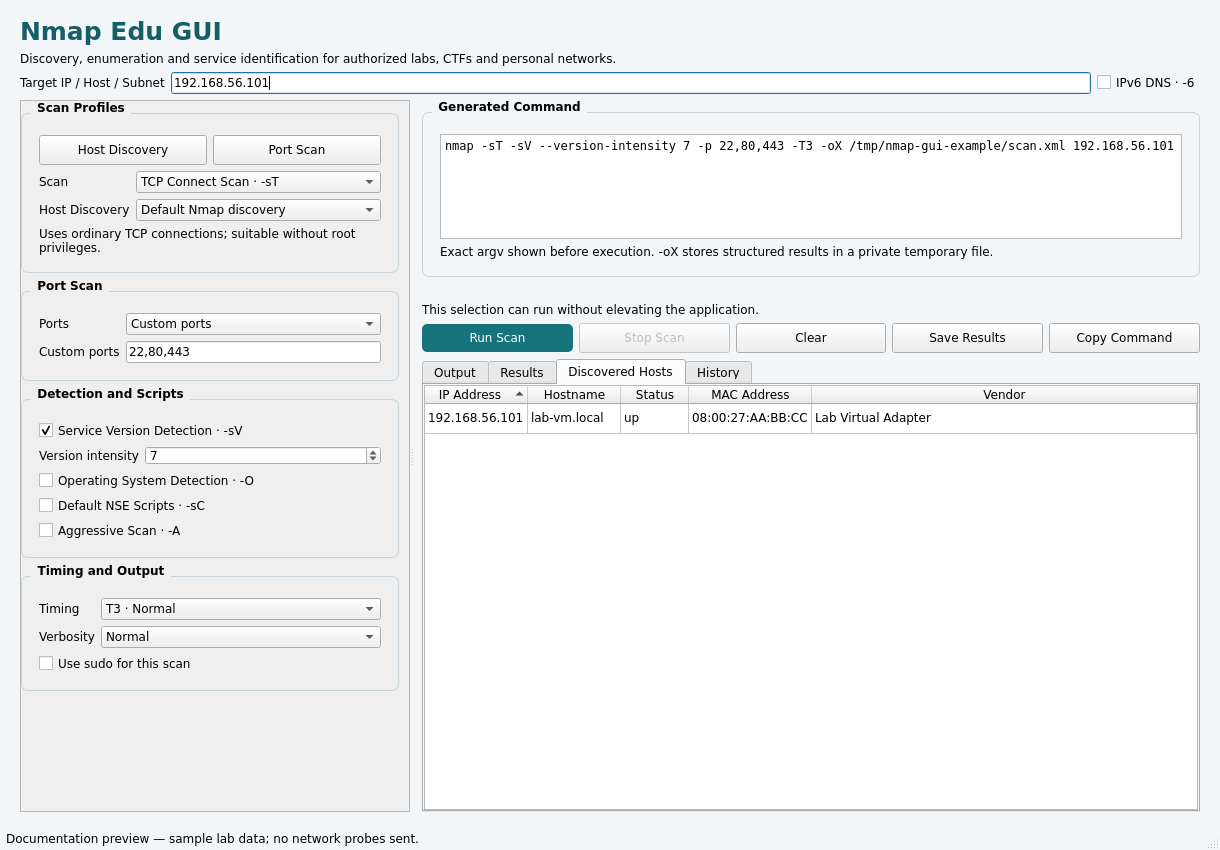
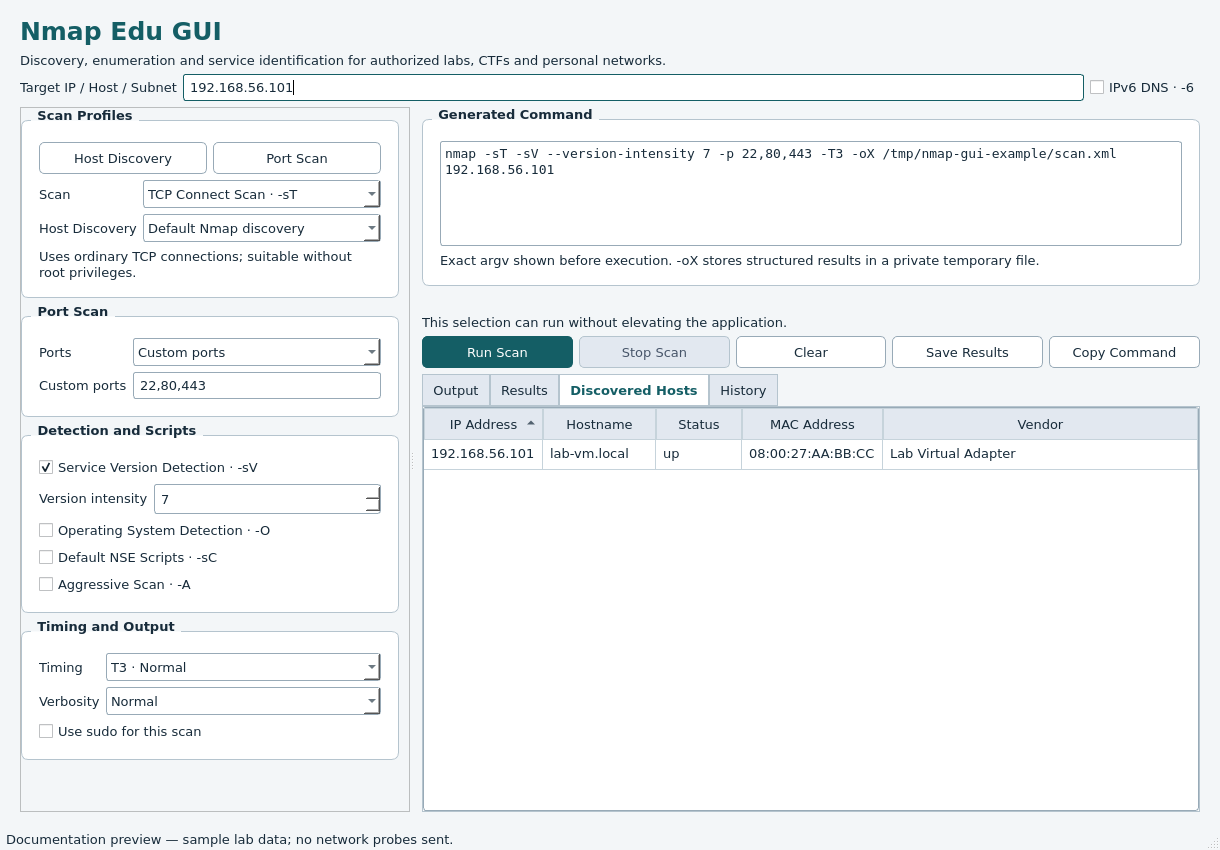
Fix text contrast across desktop themes and disabled controls

diff --git a/src/nmap_gui/theme.py b/src/nmap_gui/theme.py
@@ -1,0 +1,107 @@
+"""Consistent, readable light colors independent of the desktop's palette."""
+
+from PyQt6.QtGui import QColor, QPalette
+from PyQt6.QtWidgets import QApplication
+
+
+STYLESHEET = """
+    QMainWindow, QDialog { background: #f3f6f8; color: #172b3a; }
+    QLabel, QCheckBox, QGroupBox, QStatusBar { color: #172b3a; }
+    QLabel#title { color: #145e65; font-size: 25px; font-weight: 700; }
+    QGroupBox {
+        background: #ffffff; font-weight: 600;
+        border: 1px solid #b5c4ce; border-radius: 7px;
+        margin-top: 12px; padding: 12px 8px 8px;
+    }
+    QGroupBox::title { subcontrol-origin: margin; left: 10px; padding: 0 4px; }
+    QLineEdit, QSpinBox, QComboBox, QPlainTextEdit, QTableWidget {
+        background: #ffffff; color: #172b3a;
+        selection-background-color: #145e65; selection-color: #ffffff;
+        border: 1px solid #98aab7; border-radius: 3px;
+    }
+    QLineEdit, QSpinBox, QComboBox { padding: 4px; }
+    QLineEdit:focus, QSpinBox:focus, QComboBox:focus, QPlainTextEdit:focus {
+        border: 1px solid #145e65;
+    }
+    QComboBox QAbstractItemView {
+        background: #ffffff; color: #172b3a;
+        selection-background-color: #145e65; selection-color: #ffffff;
+        border: 1px solid #98aab7;
+    }
+    QPushButton {
+        background: #ffffff; color: #172b3a; border: 1px solid #98aab7;
+        border-radius: 5px; padding: 7px 10px;
+    }
+    QPushButton:hover { background: #edf3f6; color: #172b3a; border-color: #145e65; }
+    QPushButton:pressed { background: #dce8ed; color: #172b3a; }
+    QPushButton:focus { border: 2px solid #145e65; padding: 6px 9px; }
+    QPushButton#run { background: #145e65; color: #ffffff; border-color: #145e65; }
+    QPushButton#run:hover { background: #104d54; color: #ffffff; }
+    QPushButton#run:pressed { background: #0d3e44; color: #ffffff; }
+    QPushButton:disabled, QPushButton#run:disabled,
+    QLineEdit:disabled, QSpinBox:disabled, QComboBox:disabled {
+        background: #e2e8f0; color: #475569; border-color: #b5c4ce;
+    }
+    QLabel:disabled, QCheckBox:disabled, QGroupBox:disabled { color: #475569; }
+    QTabWidget::pane { background: #ffffff; border: 1px solid #b5c4ce; }
+    QTabBar::tab {
+        background: #e2e8f0; color: #172b3a;
+        border: 1px solid #b5c4ce; padding: 7px 10px;
+    }
+    QTabBar::tab:selected { background: #ffffff; color: #145e65; font-weight: 600; }
+    QTabBar::tab:hover { background: #edf3f6; color: #172b3a; }
+    QTableWidget { alternate-background-color: #f0f5f8; gridline-color: #c6d3db; }
+    QTableWidget::item { padding: 4px; }
+    QTableWidget::item:selected { background: #145e65; color: #ffffff; }
+    QHeaderView::section {
+        background: #e2e8f0; color: #172b3a;
+        border: 1px solid #c6d3db; padding: 5px;
+    }
+    QPlainTextEdit#console {
+        background: #18222d; color: #edf3f8; border: 0; padding: 8px;
+        selection-background-color: #b8dce2; selection-color: #172b3a;
+    }
+    QToolTip { background: #ffffff; color: #172b3a; border: 1px solid #98aab7; padding: 5px; }
+"""
+
+
+def apply_light_theme(app: QApplication) -> None:
+    """Set both palette roles and styled states, including inactive/disabled ones."""
+    app.setStyle("Fusion")
+    palette = QPalette()
+    colors = {
+        QPalette.ColorRole.Window: "#f3f6f8",
+        QPalette.ColorRole.WindowText: "#172b3a",
+        QPalette.ColorRole.Base: "#ffffff",
+        QPalette.ColorRole.AlternateBase: "#f0f5f8",
+        QPalette.ColorRole.Text: "#172b3a",
+        QPalette.ColorRole.PlaceholderText: "#526376",
+        QPalette.ColorRole.Button: "#ffffff",
+        QPalette.ColorRole.ButtonText: "#172b3a",
+        QPalette.ColorRole.Highlight: "#145e65",
+        QPalette.ColorRole.HighlightedText: "#ffffff",
+        QPalette.ColorRole.ToolTipBase: "#ffffff",
+        QPalette.ColorRole.ToolTipText: "#172b3a",
+        QPalette.ColorRole.Link: "#145e65",
+        QPalette.ColorRole.LinkVisited: "#57418b",
+        QPalette.ColorRole.Light: "#ffffff",
+        QPalette.ColorRole.Midlight: "#edf3f6",
+        QPalette.ColorRole.Mid: "#98aab7",
+        QPalette.ColorRole.Dark: "#526376",
+        QPalette.ColorRole.Shadow: "#172b3a",
+        QPalette.ColorRole.BrightText: "#ffffff",
+        QPalette.ColorRole.Accent: "#145e65",
+    }
+    for group in (QPalette.ColorGroup.Active, QPalette.ColorGroup.Inactive, QPalette.ColorGroup.Disabled):
+        for role, color in colors.items():
+            palette.setColor(group, role, QColor(color))
+    for role in (QPalette.ColorRole.WindowText, QPalette.ColorRole.Text, QPalette.ColorRole.ButtonText):
+        palette.setColor(QPalette.ColorGroup.Disabled, role, QColor("#475569"))
+    for role in (QPalette.ColorRole.Base, QPalette.ColorRole.Button):
+        palette.setColor(QPalette.ColorGroup.Disabled, role, QColor("#e2e8f0"))
+    app.setPalette(palette)
+    app.setStyleSheet(STYLESHEET)
+    font = app.font()
+    if 0 < font.pointSizeF() < 10:
+        font.setPointSize(10)
+        app.setFont(font)

diff --git a/src/nmap_gui/gui.py b/src/nmap_gui/gui.py
@@ -24,6 +24,7 @@ from .database import HistoryDatabase, HistoryError
 from .models import ScanOptions, ScanRun
 from .parser import NmapXmlError, NmapXmlParser
 from .scanner import NmapScanner, find_askpass
+from .theme import apply_light_theme
 from .validators import ValidationError
 
 SCAN_CHOICES = [
@@ -51,6 +52,7 @@ TIMING_CHOICES = ["T0 · Paranoid", "T1 · Sneaky", "T2 · Polite", "T3 · Norma
 class MainWindow(QMainWindow):
     def __init__(self, history_path: str | Path | None = None):
         super().__init__()
+        apply_light_theme(QApplication.instance())
         self.setWindowTitle("Nmap Edu GUI")
         self.resize(1220, 850)
         self._temporary = tempfile.TemporaryDirectory(prefix="nmap-gui-")
@@ -196,6 +198,7 @@ class MainWindow(QMainWindow):
         command_group = QGroupBox("Generated Command")
         command_layout = QVBoxLayout(command_group)
         monospace = QFontDatabase.systemFont(QFontDatabase.SystemFont.FixedFont)
+        monospace.setPointSize(max(10, monospace.pointSize()))
         self.command_preview = QPlainTextEdit()
         self.command_preview.setReadOnly(True)
         self.command_preview.setFont(monospace)
@@ -275,17 +278,6 @@ class MainWindow(QMainWindow):
         splitter.setStretchFactor(0, 0)
         splitter.setStretchFactor(1, 1)
         splitter.setSizes([390, 790])
-        self.setStyleSheet("""
-            QMainWindow { background: #f3f6f8; }
-            QLabel#title { color: #145e65; font-size: 25px; font-weight: 700; }
-            QGroupBox { font-weight: 600; border: 1px solid #c6d3db; border-radius: 7px;
-                        margin-top: 12px; padding: 12px 8px 8px; }
-            QGroupBox::title { subcontrol-origin: margin; left: 10px; padding: 0 4px; }
-            QPushButton { padding: 7px 10px; }
-            QPushButton#run { background: #16737c; color: white; border-radius: 5px; }
-            QPushButton#run:disabled { background: #9aabb2; }
-            QPlainTextEdit#console { background: #18222d; color: #dce7ee; border: 0; padding: 8px; }
-        """)
         self.statusBar().showMessage("Ready — enter an authorized target.")
 
     @staticmethod

diff --git a/src/nmap_gui/askpass.py b/src/nmap_gui/askpass.py
@@ -8,9 +8,12 @@ import sys
 
 from PyQt6.QtWidgets import QApplication, QInputDialog, QLineEdit
 
+from .theme import apply_light_theme
+
 
 def main() -> int:
     app = QApplication.instance() or QApplication(sys.argv[:1])
+    apply_light_theme(app)
     app.setApplicationName("Nmap Edu GUI — sudo authentication")
     password, accepted = QInputDialog.getText(
         None, "Authorize Nmap with sudo",

diff --git a/src/nmap_gui/main.py b/src/nmap_gui/main.py
@@ -17,7 +17,6 @@ def main() -> int:
     app = QApplication(sys.argv[:1])
     app.setApplicationName("Nmap Edu GUI")
     app.setOrganizationName("NmapEduGUI")
-    app.setStyle("Fusion")
     window = MainWindow(history_path=args.history_db)
     window.show()
     return app.exec()

diff --git a/DEVELOPMENT.md b/DEVELOPMENT.md
@@ -55,6 +55,12 @@ Produced artifacts: `dist/nmap_edu_gui-0.1.0.tar.gz` and `dist/nmap_edu_gui-0.1.
 
 Screenshots were generated by `scripts/capture_screenshots.py` from a clearly labelled XML fixture and visually inspected. This script never starts Nmap or sends network traffic.
 
+### Readability correction
+
+The initial stylesheet left several text colors to the desktop theme and gave the disabled Run button white text on a gray background. `theme.py` now sets a complete light palette plus explicit foreground/background pairs for inputs, buttons, disabled controls, table rows/selections, headers, tabs, dropdowns, tooltips and dialogs. The sudo helper uses the same theme. Text defaults to at least 10 points; the output console also uses a minimum 10-point monospace font.
+
+Verification began with an intentionally dark application palette, then opened the actual widgets. Measured foreground/background contrast ratios were 6.15 for disabled controls, 7.45 for the primary action and active/inactive table selections, 14.55 for inputs/dropdowns/password fields, and 14.38 for the console. Rendered screenshots of disabled controls, selected rows, dropdowns and a dummy password dialog were visually inspected. No scan or authentication was performed. Documentation screenshots were refreshed; the existing suite still reports **115 passed, 1 skipped**.
+
 ## Manual acceptance on an authorized Kali desktop
 
 1. Follow the README's clean virtualenv installation. Run `nmap --version` and `python -m nmap_gui.main` as an ordinary desktop user.

diff --git a/README.md b/README.md
@@ -28,6 +28,7 @@ Screenshots show the actual Qt interface populated with **illustrative sample la
 - **Discovered Hosts**: IP Address, Hostname, Status, MAC Address, Vendor.
 - SQLite **History**: start timestamp in UTC, target, exact argv, options, duration, outcome, exit code, raw output and XML. Reopen, copy commands or rerun scans.
 - Explicit sudo selection for privileged scans; only Nmap is elevated. No saved passwords.
+- Consistent light colors with readable disabled controls, selections and dialogs, including on desktops using a dark system theme.
 
 ## Requirements
 
@@ -168,6 +169,7 @@ nmap-gui/
 │   ├── __init__.py
 │   ├── main.py               # Entry point and CLI arguments
 │   ├── gui.py                # Qt widgets and presentation
+│   ├── theme.py              # Consistent light palette and readable widget states
 │   ├── command_builder.py    # Validated argv and command preview
 │   ├── scanner.py            # QThread + subprocess, streaming and cancellation
 │   ├── parser.py             # ElementTree XML → host/port/service objects
